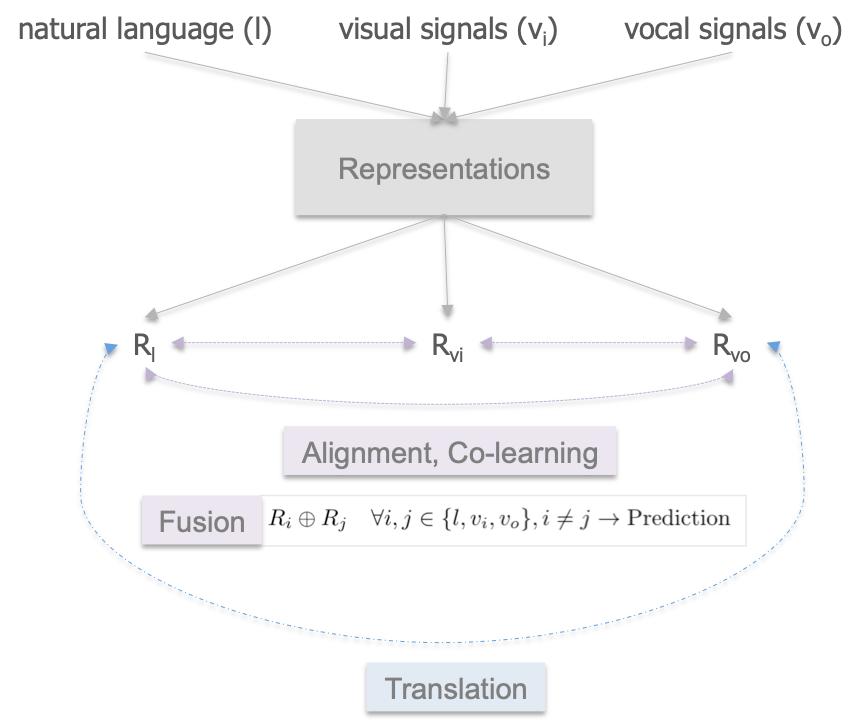
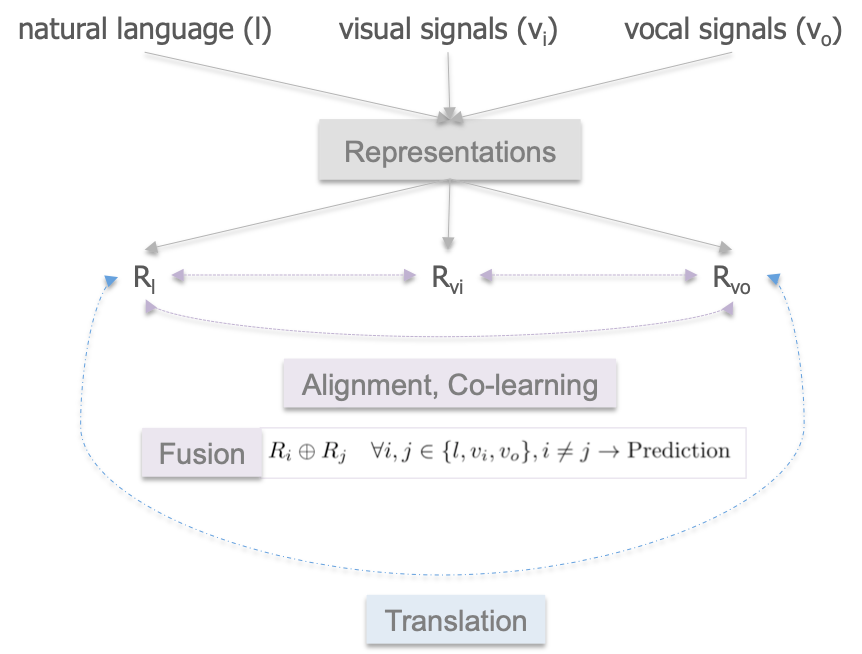
Update multimodal

diff --git a/notes/multimodalsurvey.md b/notes/multimodalsurvey.md
@@ -16,12 +16,12 @@ TLDR; Survey paper for research in the field of Multimodal Machine Learning, dee
     3. Vocal signals: sounds and para-verbal information (prosody and vocal expressions)
 * 5 core technical challenges: representation (heterogeneity of the data), translation, alignment, fusion, and co-learning
 <p align="center">
-<img src="https://github.com/gcunhase/PaperNotes/blob/master/notes/imgs/multimodal_scheme.png" width="400" alt="Multimodal Scheme">
+<img src="https://github.com/gcunhase/PaperNotes/blob/master/notes/imgs/multimodal_scheme.png" width="300" alt="Multimodal Scheme">
 </p>
 
 ### Applications: A Historical Perspective
 <p align="center">
-<img src="https://github.com/gcunhase/PaperNotes/blob/master/notes/imgs/multimodal_applications.png" width="400" alt="Multimodal Applications">
+<img src="https://github.com/gcunhase/PaperNotes/blob/master/notes/imgs/multimodal_applications.png" width="500" alt="Multimodal Applications">
 </p>
 
 * The McGurk effect
